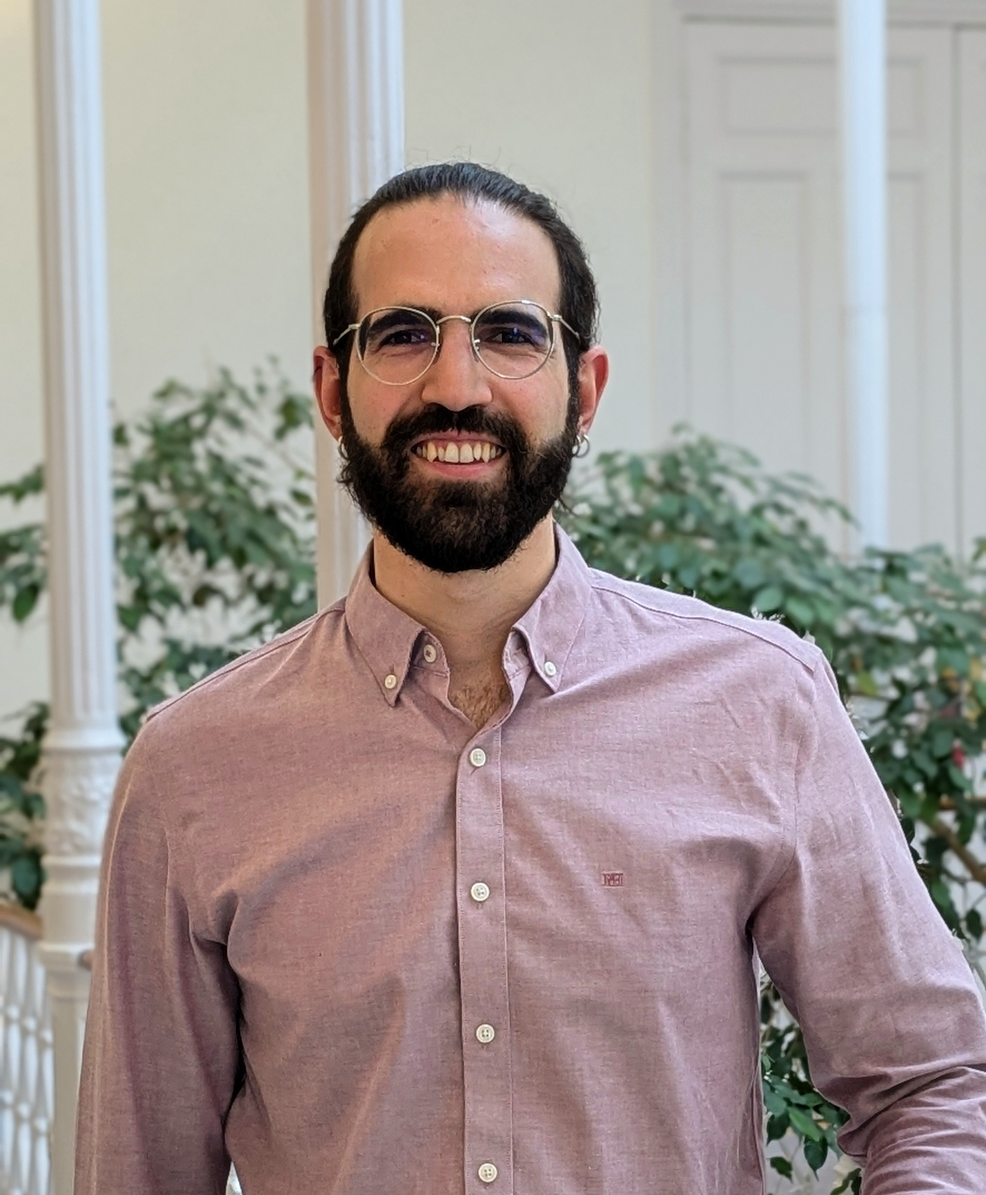
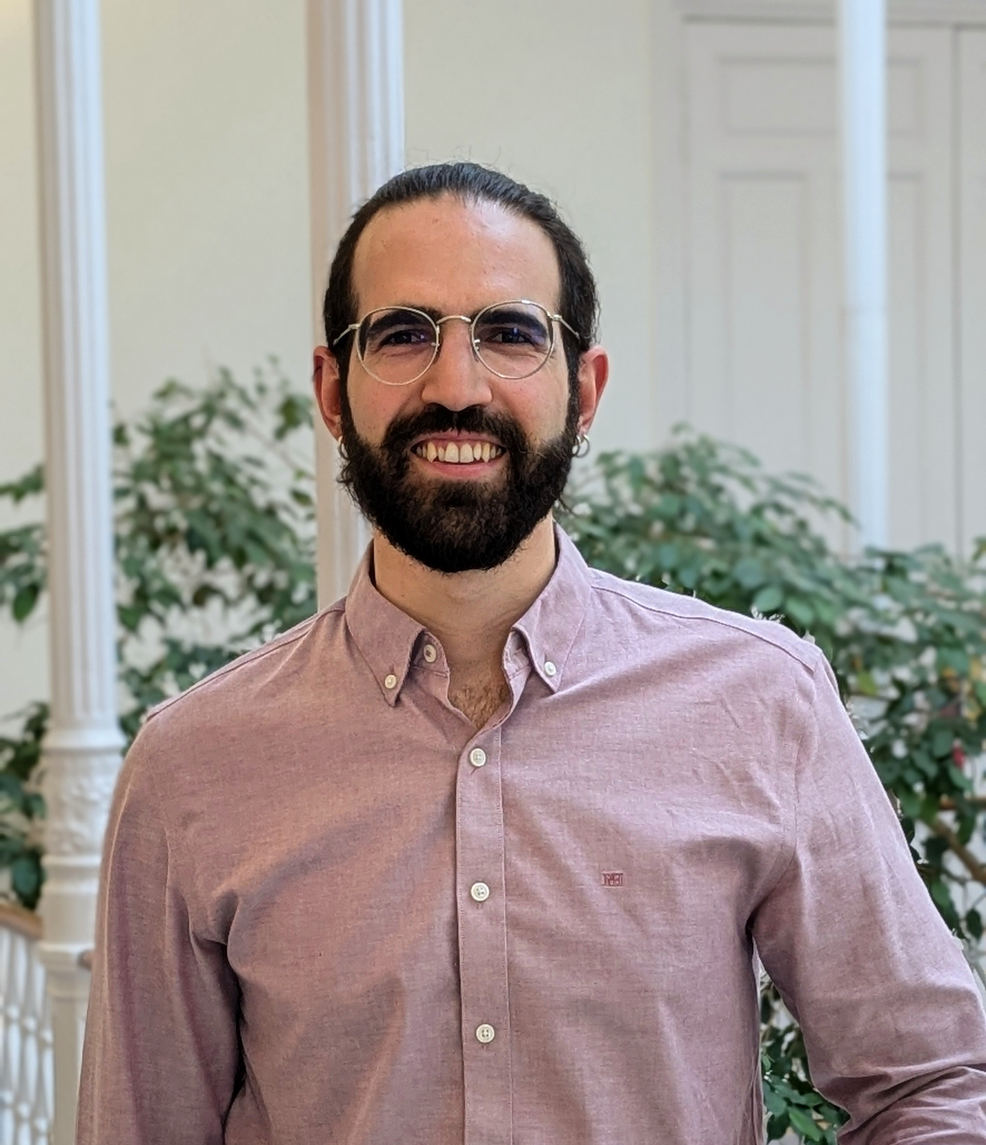
change picture and color theme

diff --git a/_includes/sidebar.html b/_includes/sidebar.html
@@ -45,7 +45,7 @@
 
 <div class="sidebar">
   <div class="sidebar-inner">
-    <img src="/photos/portrait_shorter2.jpg" class="sidebar-photo" alt="Foto">
+    <img src="/photos/portrait_green_shorter.jpg" class="sidebar-photo" alt="Foto">
   <!-- <div class="container sidebar-sticky"> This line fixes the sidebar, with the disadvantage of it not fitting some screen proportions -->
   <div class="sidebar-about">
         <!-- <img src="/photos/foto.jpg" alt="foto" class="inline"/>  --> <!---  Vertical pic, original  --->

diff --git a/_layouts/default.html b/_layouts/default.html
@@ -5,7 +5,7 @@
 {% include google_analytics.html %}
 
 
-  <body class="theme-base-08"> <!-- red -->
+  <body class="theme-base-0c"> <!-- cyan -->
 
     {% include sidebar.html %}
 
